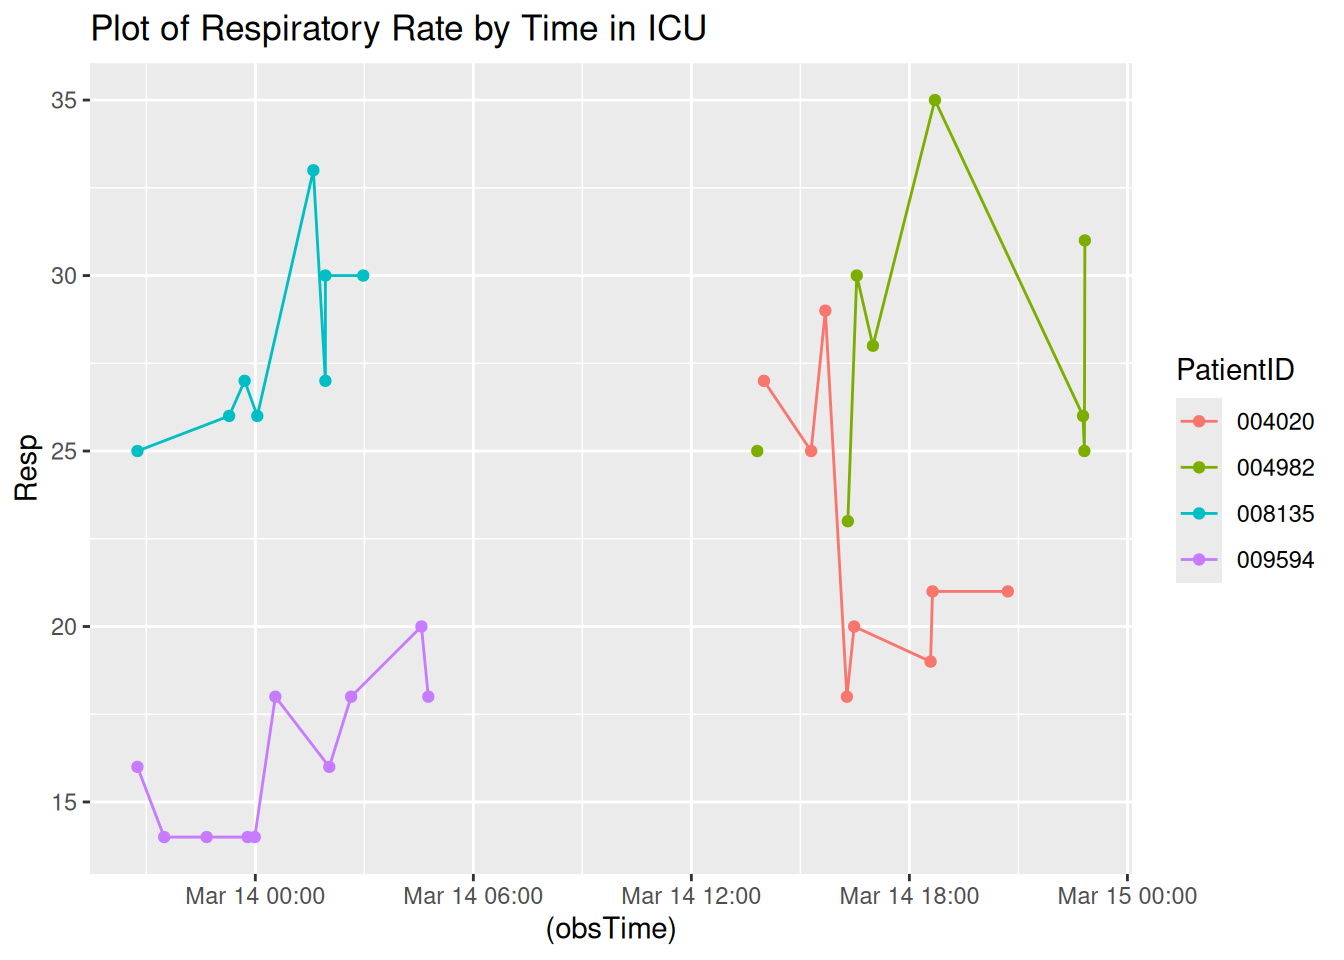
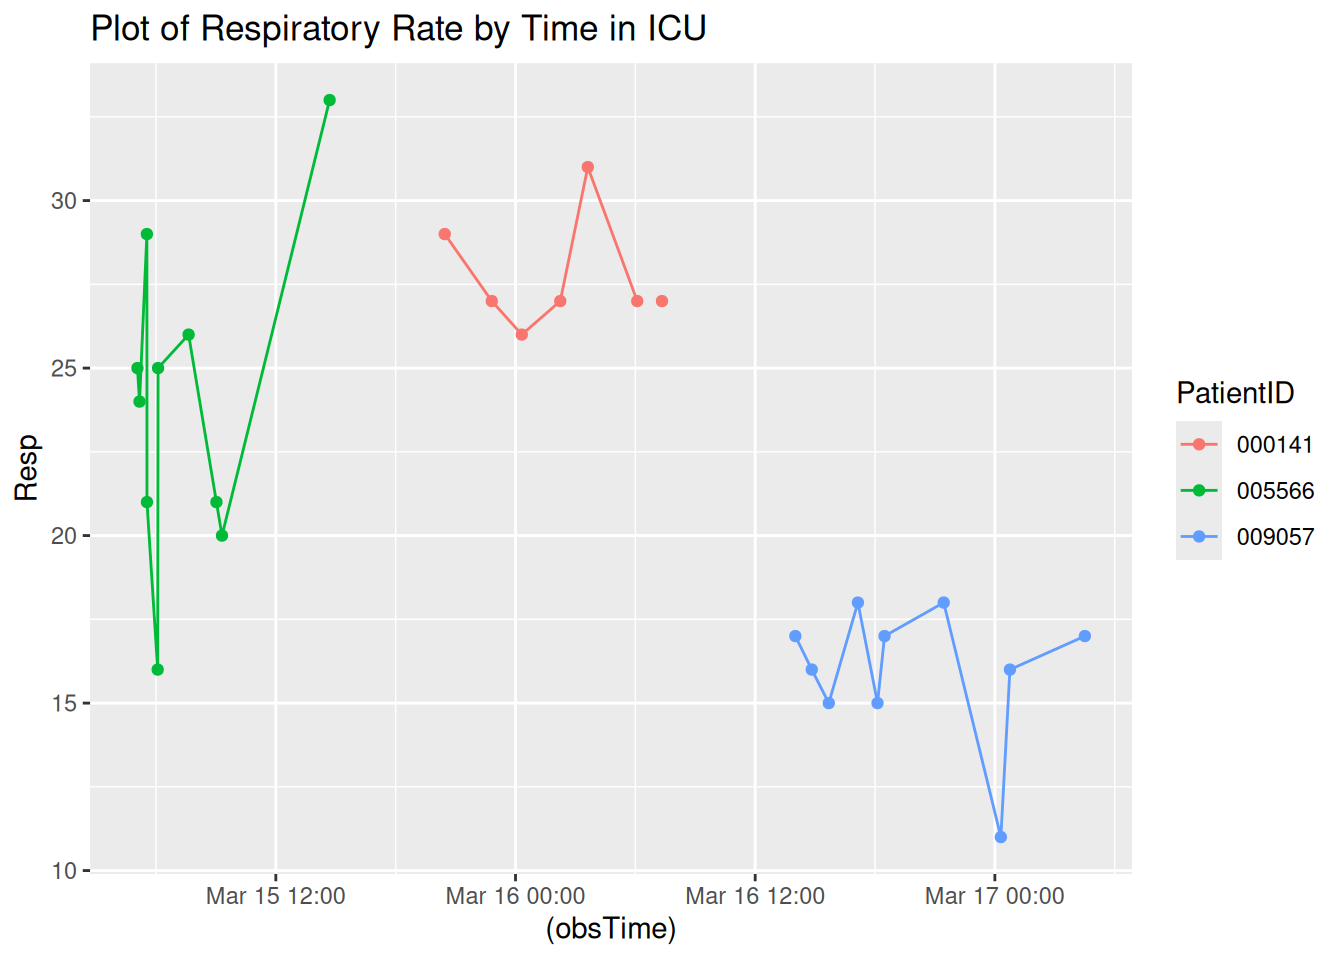
Updated report

diff --git a/A7.html b/A7.html
@@ -119,7 +119,7 @@ pre > code.sourceCode > span > a:first-child::before { text-decoration: underlin
 </div>
 <div class="code-copy-outer-scaffold"><div class="sourceCode cell-code" id="cb4"><pre class="sourceCode r code-with-copy"><code class="sourceCode r"><span id="cb4-1"><a href="#cb4-1" aria-hidden="true" tabindex="-1"></a><span class="fu">toc</span>()</span></code></pre></div><button title="Copy to Clipboard" class="code-copy-button"><i class="bi"></i></button></div>
 <div class="cell-output cell-output-stdout">
-<pre><code>11.42 sec elapsed</code></pre>
+<pre><code>10.653 sec elapsed</code></pre>
 </div>
 <div class="code-copy-outer-scaffold"><div class="sourceCode cell-code" id="cb6"><pre class="sourceCode r code-with-copy"><code class="sourceCode r"><span id="cb6-1"><a href="#cb6-1" aria-hidden="true" tabindex="-1"></a><span class="fu">tic</span>()</span>
 <span id="cb6-2"><a href="#cb6-2" aria-hidden="true" tabindex="-1"></a>test1<span class="ot">=</span><span class="fu">makeSepsisDataset</span>(<span class="at">n=</span><span class="dv">50</span>,<span class="at">read_fn =</span> <span class="st">"read_delim"</span>)</span>
@@ -129,7 +129,7 @@ pre > code.sourceCode > span > a:first-child::before { text-decoration: underlin
 </div>
 <div class="code-copy-outer-scaffold"><div class="sourceCode cell-code" id="cb8"><pre class="sourceCode r code-with-copy"><code class="sourceCode r"><span id="cb8-1"><a href="#cb8-1" aria-hidden="true" tabindex="-1"></a><span class="fu">toc</span>()</span></code></pre></div><button title="Copy to Clipboard" class="code-copy-button"><i class="bi"></i></button></div>
 <div class="cell-output cell-output-stdout">
-<pre><code>10.585 sec elapsed</code></pre>
+<pre><code>10.696 sec elapsed</code></pre>
 </div>
 <div class="code-copy-outer-scaffold"><div class="sourceCode cell-code" id="cb10"><pre class="sourceCode r code-with-copy"><code class="sourceCode r"><span id="cb10-1"><a href="#cb10-1" aria-hidden="true" tabindex="-1"></a><span class="co"># n=100</span></span>
 <span id="cb10-2"><a href="#cb10-2" aria-hidden="true" tabindex="-1"></a><span class="fu">tic</span>()</span>
@@ -140,7 +140,7 @@ pre > code.sourceCode > span > a:first-child::before { text-decoration: underlin
 </div>
 <div class="code-copy-outer-scaffold"><div class="sourceCode cell-code" id="cb12"><pre class="sourceCode r code-with-copy"><code class="sourceCode r"><span id="cb12-1"><a href="#cb12-1" aria-hidden="true" tabindex="-1"></a><span class="fu">toc</span>()</span></code></pre></div><button title="Copy to Clipboard" class="code-copy-button"><i class="bi"></i></button></div>
 <div class="cell-output cell-output-stdout">
-<pre><code>21.057 sec elapsed</code></pre>
+<pre><code>18.367 sec elapsed</code></pre>
 </div>
 <div class="code-copy-outer-scaffold"><div class="sourceCode cell-code" id="cb14"><pre class="sourceCode r code-with-copy"><code class="sourceCode r"><span id="cb14-1"><a href="#cb14-1" aria-hidden="true" tabindex="-1"></a><span class="fu">tic</span>()</span>
 <span id="cb14-2"><a href="#cb14-2" aria-hidden="true" tabindex="-1"></a>test1<span class="ot">=</span><span class="fu">makeSepsisDataset</span>(<span class="at">n=</span><span class="dv">100</span>,<span class="at">read_fn =</span> <span class="st">"read_delim"</span>)</span>
@@ -150,7 +150,7 @@ pre > code.sourceCode > span > a:first-child::before { text-decoration: underlin
 </div>
 <div class="code-copy-outer-scaffold"><div class="sourceCode cell-code" id="cb16"><pre class="sourceCode r code-with-copy"><code class="sourceCode r"><span id="cb16-1"><a href="#cb16-1" aria-hidden="true" tabindex="-1"></a><span class="fu">toc</span>()</span></code></pre></div><button title="Copy to Clipboard" class="code-copy-button"><i class="bi"></i></button></div>
 <div class="cell-output cell-output-stdout">
-<pre><code>23.489 sec elapsed</code></pre>
+<pre><code>22.095 sec elapsed</code></pre>
 </div>
 <div class="code-copy-outer-scaffold"><div class="sourceCode cell-code" id="cb18"><pre class="sourceCode r code-with-copy"><code class="sourceCode r"><span id="cb18-1"><a href="#cb18-1" aria-hidden="true" tabindex="-1"></a><span class="co"># n=500</span></span>
 <span id="cb18-2"><a href="#cb18-2" aria-hidden="true" tabindex="-1"></a><span class="fu">tic</span>()</span>
@@ -161,7 +161,7 @@ pre > code.sourceCode > span > a:first-child::before { text-decoration: underlin
 </div>
 <div class="code-copy-outer-scaffold"><div class="sourceCode cell-code" id="cb20"><pre class="sourceCode r code-with-copy"><code class="sourceCode r"><span id="cb20-1"><a href="#cb20-1" aria-hidden="true" tabindex="-1"></a><span class="fu">toc</span>()</span></code></pre></div><button title="Copy to Clipboard" class="code-copy-button"><i class="bi"></i></button></div>
 <div class="cell-output cell-output-stdout">
-<pre><code>99.829 sec elapsed</code></pre>
+<pre><code>96.437 sec elapsed</code></pre>
 </div>
 <div class="code-copy-outer-scaffold"><div class="sourceCode cell-code" id="cb22"><pre class="sourceCode r code-with-copy"><code class="sourceCode r"><span id="cb22-1"><a href="#cb22-1" aria-hidden="true" tabindex="-1"></a><span class="fu">tic</span>()</span>
 <span id="cb22-2"><a href="#cb22-2" aria-hidden="true" tabindex="-1"></a>test1<span class="ot">=</span><span class="fu">makeSepsisDataset</span>(<span class="at">n=</span><span class="dv">500</span>,<span class="at">read_fn =</span> <span class="st">"read_delim"</span>)</span>
@@ -171,7 +171,7 @@ pre > code.sourceCode > span > a:first-child::before { text-decoration: underlin
 </div>
 <div class="code-copy-outer-scaffold"><div class="sourceCode cell-code" id="cb24"><pre class="sourceCode r code-with-copy"><code class="sourceCode r"><span id="cb24-1"><a href="#cb24-1" aria-hidden="true" tabindex="-1"></a><span class="fu">toc</span>()</span></code></pre></div><button title="Copy to Clipboard" class="code-copy-button"><i class="bi"></i></button></div>
 <div class="cell-output cell-output-stdout">
-<pre><code>112.77 sec elapsed</code></pre>
+<pre><code>110.244 sec elapsed</code></pre>
 </div>
 </div>
 <p><strong>Task 3</strong></p>
@@ -207,7 +207,7 @@ readr 2.2.0.
 <span id="cb30-4"><a href="#cb30-4" aria-hidden="true" tabindex="-1"></a></span>
 <span id="cb30-5"><a href="#cb30-5" aria-hidden="true" tabindex="-1"></a><span class="fu">Sys.time</span>()</span></code></pre></div><button title="Copy to Clipboard" class="code-copy-button"><i class="bi"></i></button></div>
 <div class="cell-output cell-output-stdout">
-<pre><code>[1] "2026-03-13 20:45:21 UTC"</code></pre>
+<pre><code>[1] "2026-03-13 21:42:53 UTC"</code></pre>
 </div>
 <div class="code-copy-outer-scaffold"><div class="sourceCode cell-code" id="cb32"><pre class="sourceCode r code-with-copy"><code class="sourceCode r"><span id="cb32-1"><a href="#cb32-1" aria-hidden="true" tabindex="-1"></a>dfnew <span class="ot">&lt;-</span> df <span class="sc">%&gt;%</span></span>
 <span id="cb32-2"><a href="#cb32-2" aria-hidden="true" tabindex="-1"></a>  <span class="fu">subset</span>(SepsisLabel<span class="sc">==</span><span class="dv">1</span>)</span>
@@ -236,40 +236,31 @@ readr 2.2.0.
 </thead>
 <tbody>
 <tr class="odd">
-<td style="text-align: left;">004020</td>
-<td style="text-align: right;">25</td>
-<td style="text-align: right;">97</td>
+<td style="text-align: left;">000141</td>
+<td style="text-align: right;">59</td>
 <td style="text-align: right;">NA</td>
-<td style="text-align: right;">21</td>
+<td style="text-align: right;">NA</td>
+<td style="text-align: right;">NA</td>
 <td style="text-align: right;">1</td>
-<td style="text-align: left;">2026-03-14 20:42:31</td>
+<td style="text-align: left;">2026-03-16 07:54:56</td>
 </tr>
 <tr class="even">
-<td style="text-align: left;">004982</td>
-<td style="text-align: right;">27</td>
-<td style="text-align: right;">125</td>
-<td style="text-align: right;">37.72</td>
-<td style="text-align: right;">31</td>
+<td style="text-align: left;">005566</td>
+<td style="text-align: right;">41</td>
+<td style="text-align: right;">105</td>
+<td style="text-align: right;">NA</td>
+<td style="text-align: right;">33</td>
 <td style="text-align: right;">1</td>
-<td style="text-align: left;">2026-03-14 22:49:45</td>
+<td style="text-align: left;">2026-03-15 14:41:37</td>
 </tr>
 <tr class="odd">
-<td style="text-align: left;">008135</td>
-<td style="text-align: right;">7</td>
-<td style="text-align: right;">97</td>
+<td style="text-align: left;">009057</td>
+<td style="text-align: right;">79</td>
+<td style="text-align: right;">89</td>
 <td style="text-align: right;">NA</td>
-<td style="text-align: right;">30</td>
+<td style="text-align: right;">17</td>
 <td style="text-align: right;">1</td>
-<td style="text-align: left;">2026-03-14 02:58:13</td>
-</tr>
-<tr class="even">
-<td style="text-align: left;">009594</td>
-<td style="text-align: right;">9</td>
-<td style="text-align: right;">145</td>
-<td style="text-align: right;">39.72</td>
-<td style="text-align: right;">18</td>
-<td style="text-align: right;">1</td>
-<td style="text-align: left;">2026-03-14 04:45:37</td>
+<td style="text-align: left;">2026-03-17 04:30:22</td>
 </tr>
 </tbody>
 </table>
